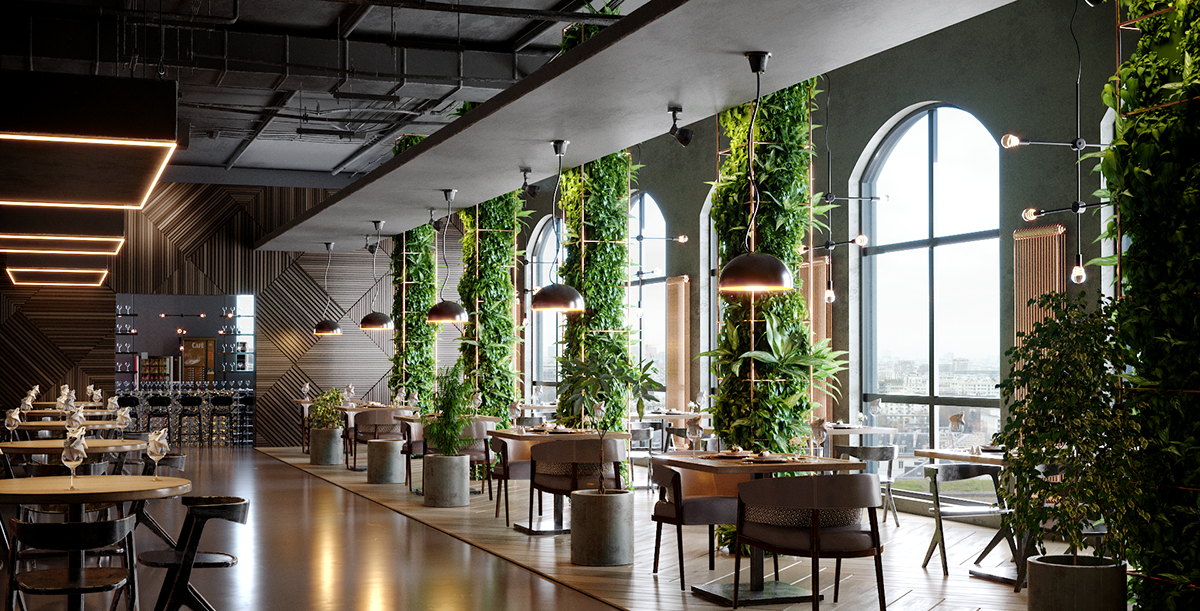
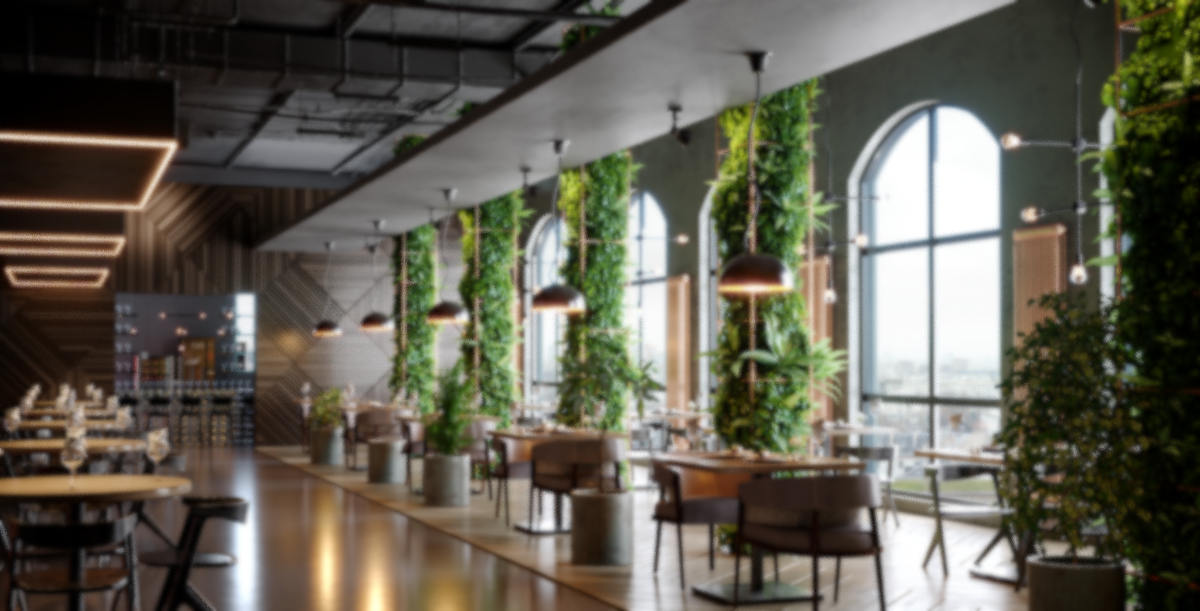
Add Edit reservation feature and update Home page UI.

diff --git a/RestaurantBookingSystem/wwwroot/css/site.css b/RestaurantBookingSystem/wwwroot/css/site.css
@@ -47,6 +47,15 @@ body {
     border-radius: 12px;
     backdrop-filter: none;
 }
+
+.hero-section {
+    height: 60vh;
+    width: 100%;
+    display: flex;
+    align-items: center;
+    justify-content: center;
+}
+
 .card {
     color: #222;
 }

diff --git a/RestaurantBookingSystem/Controllers/ReservationsController.cs b/RestaurantBookingSystem/Controllers/ReservationsController.cs
@@ -126,5 +126,74 @@ namespace RestaurantBookingSystem.Controllers
 
             return RedirectToAction(nameof(Index));
         }
+
+        public async Task<IActionResult> Edit(int id)
+        {
+            var reservation = await _context.Reservations
+                .Include(r => r.Customer)
+                .Include(r => r.Table)
+                .FirstOrDefaultAsync(r => r.Id == id);
+
+            if (reservation == null)
+                return NotFound();
+
+            var model = new ReservationFormViewModel
+            {
+                Id = reservation.Id,
+                Date = reservation.Date,
+                Time = reservation.Time,
+                NumberOfGuests = reservation.NumberOfGuests,
+                Notes = reservation.Notes,
+                CustomerName = reservation.Customer.FullName,
+                CustomerPhone = reservation.Customer.PhoneNumber,
+                CustomerEmail = reservation.Customer.Email,
+                TableId = reservation.TableId,
+                Tables = await _context.Tables
+                 .Select(t => new SelectListItem
+                 {
+                       Value = t.Id.ToString(),
+                        Text = $"Table {t.TableNumber} - {t.Seats} seats"
+                 })
+                 .ToListAsync()
+            };
+
+            return View(model);
+        }
+        [HttpPost]
+        public async Task<IActionResult> Edit(int id, ReservationFormViewModel model)
+        {
+            if (!ModelState.IsValid)
+            {
+                model.Tables = await _context.Tables
+              .Select(t => new SelectListItem
+              {
+                  Value = t.Id.ToString(),
+                  Text = $"Table {t.TableNumber} - {t.Seats} seats"
+              })
+              .ToListAsync();
+
+                return View(model);
+            }
+            var reservation = await _context.Reservations
+               .Include(r => r.Customer)
+               .FirstOrDefaultAsync(r => r.Id == id);
+
+            if (reservation == null)
+                return NotFound();
+
+            reservation.Customer.FullName = model.CustomerName;
+            reservation.Customer.PhoneNumber = model.CustomerPhone;
+            reservation.Customer.Email = model.CustomerEmail;
+            reservation.Date = model.Date;
+            reservation.Time = model.Time;
+            reservation.NumberOfGuests = model.NumberOfGuests;
+            reservation.Notes = model.Notes;
+            reservation.TableId = model.TableId;
+
+            await _context.SaveChangesAsync();
+
+            return RedirectToAction(nameof(Index));
+        }
+
     }
 }

diff --git a/RestaurantBookingSystem/Controllers/HomeController.cs b/RestaurantBookingSystem/Controllers/HomeController.cs
@@ -1,20 +1,35 @@
-using System.Diagnostics;
 using Microsoft.AspNetCore.Mvc;
+using Microsoft.EntityFrameworkCore;
+using RestaurantBookingSystem.Data;
 using RestaurantBookingSystem.ViewModels;
+using System.Diagnostics;
 
 namespace RestaurantBookingSystem.Controllers
 {
     public class HomeController : Controller
     {
         private readonly ILogger<HomeController> _logger;
+        private readonly ApplicationDbContext _context;
 
-        public HomeController(ILogger<HomeController> logger)
+        public HomeController(ILogger<HomeController> logger, ApplicationDbContext dbContext)
         {
             _logger = logger;
+            _context = dbContext;
         }
 
-        public IActionResult Index()
+        public async Task<IActionResult> Index()
         {
+            var today = DateTime.Today;
+
+            var reservationsToday = await _context.Reservations
+                .Include(r => r.Customer)
+                .Include(r => r.Table)
+                .Where(r => r.Date == today)
+                .OrderBy(r => r.Time)
+                .ToListAsync();
+
+            ViewBag.TodayReservations = reservationsToday; 
+
             return View();
         }
 
